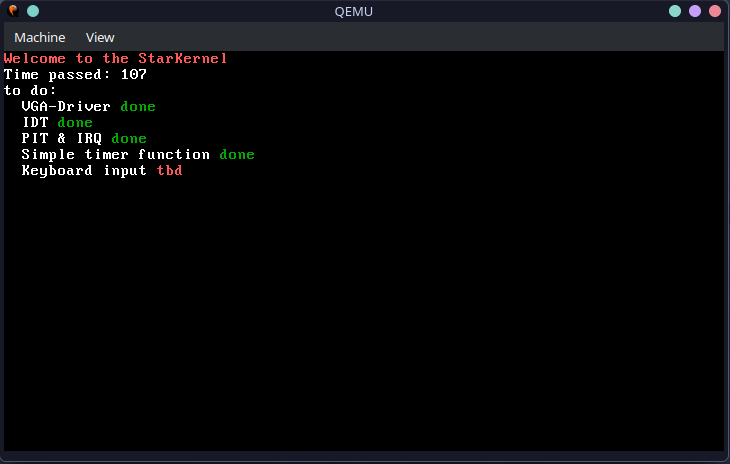
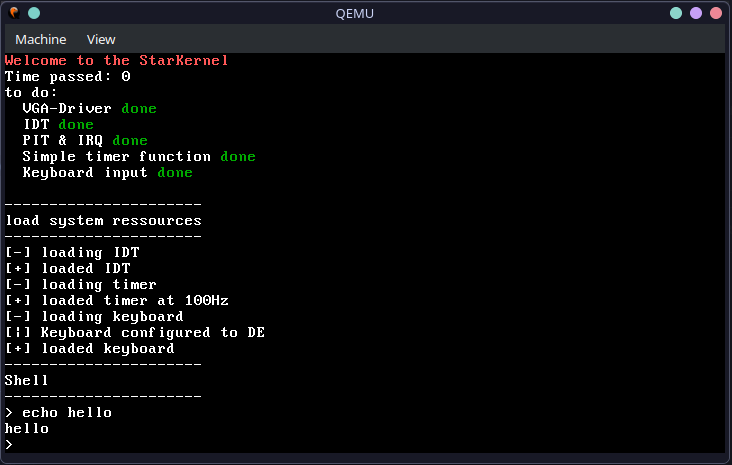
bug fixes

Changed region(s): [[0.0, 0.0, 1.0, 1.0]]

diff --git a/kernel/Graphics/VGADriver.c b/kernel/Graphics/VGADriver.c
@@ -19,26 +19,40 @@ void clearScreen() {
     //init every bit as ' '
     for (int i = 0; i < ROWS * COLS; i++) {
         memory[i] = 0x20;
-        buffer[i] = 0x20;
+        //buffer[i] = 0x20;
     }
 }
 
 void loadBuffer() {
-    for (int i = 0; i < ROWS * COLS; i++) {
+    /*for (int i = 0; i < ROWS - 1; i++) {
         //set every bit in the memory like in the buffer
-        memory[i] = buffer[i];
+        //memory[i] = buffer[i];
 
         //move every line one below in the buffer
-        if(i > COLS) {
-            buffer[i-COLS] = buffer[i];
+        if(i > COLS && i < (ROWS-2) * COLS) {
+            memory[i - (COLS - 1)] = memory[i];
+            //buffer[i-COLS] = buffer[i];
+        } else if (i >= (ROWS-2)* COLS) {
+            memory[i] = 0x20;    
         }
+    }*/
+  int pos = 80;
+  for (int r = 0; r < ROWS - 1; r++) {
+    for(int c = 0; c <= COLS; c++) {
+      memory[pos - COLS] = memory[pos];
+      pos++;
     }
+  }
+  for (int i = 0; i <= COLS; i++) {
+    memory[pos - COLS] = 0x20;
+    pos++;
+  }
 }
 
 void deleteChar() {
   u16 ch = char2short(' ', printColor);
   memory[--VGApos] = ch;
-  buffer[VGApos] = ch;
+  //buffer[VGApos] = ch;
 }
 
 
@@ -59,14 +73,15 @@ void print (char * word) {
             if(VGApos + (COLS - (VGApos % COLS)) <COLS * ROWS) {
                 VGApos += (COLS - (VGApos % COLS));
             } else {
-                VGApos -= (COLS);
+                VGApos -= (VGApos %  COLS);
+                //clearScreen();
                 loadBuffer();
             }
         }
         //set char in buffer and in the vga memory
         else {memory[(VGApos++)] = ch;}
         if(VGApos > COLS) {
-            buffer[VGApos-(COLS + 1)] = ch;
+            //buffer[VGApos-(COLS + 1)] = ch;
         }
     }
 }

diff --git a/kernel/StarLang/shell.c b/kernel/StarLang/shell.c
@@ -31,16 +31,38 @@ bool equals(char* a, char*b) {
 char * tmp;
 char * arg1;
 
-typedef struct function {
-    char * command;
-    struct function * next;
-} function;
+typedef struct file{
+  char * name;
+  char* content;
+}file;
 
-function test;
+typedef struct folder{
+  file * f;
+}folder;
 
-void execFunction(function * f) {
-    handleCommand(f->command);
-    execFunction(f->next);
+file fi={.name="test", .content="echo lol"};
+folder root = {&fi};
+
+void handleFile(file * fi) {
+  int i = 0;
+  int j = 0;
+  while(fi->content[i] != 0x0) {
+    if(fi->content[i] == '\n') {
+      tmp[j++] = 0x0;
+      handleCommand(tmp);
+      j=0;
+      i++;
+    } else {
+      tmp[j] = fi->content[i];
+      i++;
+      j++;
+    }
+  }
+  if(j!=0) {
+    tmp[j++] = 0x0;
+    handleCommand(tmp);
+    j=0;
+  }
 }
 
 void handleCommand(char * cmd) {
@@ -58,9 +80,12 @@ void handleCommand(char * cmd) {
         arg1[j++] = '\n';
         arg1[j++] = 0x0;
         print(arg1);
+    } else if(equals(tmp, "set")) {
+      root.f->content = "echo hello\ntest";
     } else if (equals(tmp, "clear")){
         clearScreen();
     } else {
-        print("Command '"); print(tmp); print("' not found\n");
+        if(equals(tmp, root.f->name)) {handleFile(root.f);}
+        else { print("Command '"); print(tmp); print("' not found\n"); }
     }
 }

diff --git a/kernel/dictionary/dictionary.c b/kernel/dictionary/dictionary.c
@@ -1,6 +1,8 @@
 #include "dictionary.h"
 #include "../utils/types.h"
 
+char * charToReturn;
+
 char * intToChar(int x) {
     int buffer[20];
     int len = 0;
@@ -15,7 +17,7 @@ char * intToChar(int x) {
     if (x>=0) {
         buffer[len++] = x;
     }
-    char charToReturn[len + 2];
+    //char charToReturn[len + 2];
     int pos=len - 1;
     for (int i=0; i<len; i++) {
         switch (buffer[i]) {
@@ -50,7 +52,7 @@ char * longToChar(u64 x) {
     if (x>=0) {
         buffer[len++] = x;
     }
-    char charToReturn[len + 2];
+    //char charToReturn[len + 2];
     int pos=len - 1;
     for (int i=0; i<len; i++) {
         switch (buffer[i]) {

diff --git a/kernel/CPU/idt.c b/kernel/CPU/idt.c
@@ -8,7 +8,7 @@
 #define INTERRUPT_GATE 0x8E
 #define TRAP_GATE 0x8F
 
-void memset(u8 *b, int c, int len) {
+void memset8(u8 *b, int c, int len) {
     int i=0;
     u8 *tmp = (u8 *) b;
     for (; len !=0; len--) *tmp++ = c;
@@ -37,7 +37,7 @@ void idtSetHandler(u8 num, void (*handler)()) {
 }
 
 void idtInit() {
-    memset((u8 *) &idt, 0, sizeof(struct idtEntry)*256 -1);
+    memset8((u8 *) &idt, 0, sizeof(struct idtEntry)*256 -1);
 
     //set the CPU interrupt behaviour
     for (int i = 0; i < 32; ++i)

diff --git a/kernel/Keyboard/keyboard.c b/kernel/Keyboard/keyboard.c
@@ -1,7 +1,8 @@
 #include "keyboard.h"
 #include "../utils/types.h"
 #include "../StarLang/shell.h"
-#include "../CPU/idt.h"
+#include "../CPU/irq.h"
+#include "../utils/common.h"
 #include "../Graphics/VGADriver.h"
 
 char * cmd;
@@ -42,6 +43,7 @@ void keyboardGerman() {
         break;
     case 0x1c:
         print("\n");
+        cmd[pos++] = 0x0;
         handleCommand(cmd);
         pos = 0;
         for(int i = 0; i<10; i++) {

diff --git a/kernel/main.c b/kernel/main.c
@@ -46,11 +46,11 @@ void cstart() {
     changeColor(WHITE);
     print("Time passed: ");
     print(intToChar(ticks));
-    //printToDo();
+    printToDo();
     loadSystemResources();
     changeColor(WHITE); print("----------------------\nShell\n----------------------\n> ");
     
-    //preparing for keyboard stuff
+    //enabling interrupts
     asm volatile ("sti");
 
     //pause

diff --git a/README.md b/README.md
@@ -14,11 +14,18 @@ Features so far: <br>
     > Simple shell <br>
 
 Next to do: <br>
-    > bug fixing <br>
+    > a simple file system <br>
+    > more shell functions <br>
+    > simple scripting language <br>
+    this could take a while
 
 ### Shell <br>
 `echo {word}` prints the word <br>
 `clear` clears the screen <br>
+
+not to stay: <br>
+`test` prints "lol" <br>
+`set` sets test to print hello and then call it self <br>
 
 ### HOW TO RUN <br>
 Requirements: <br>
